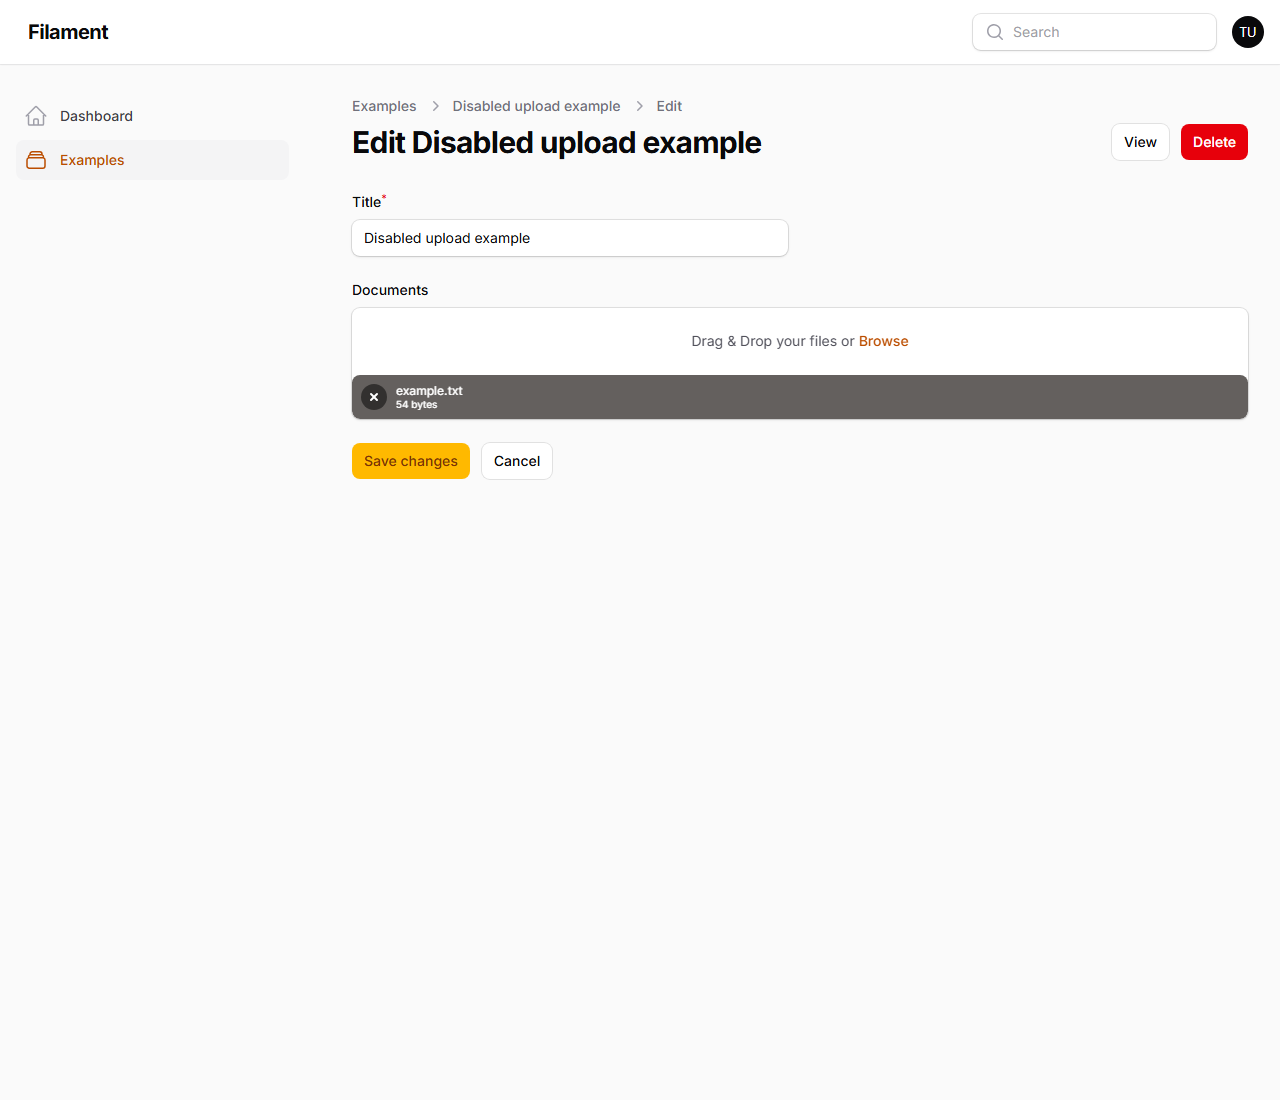
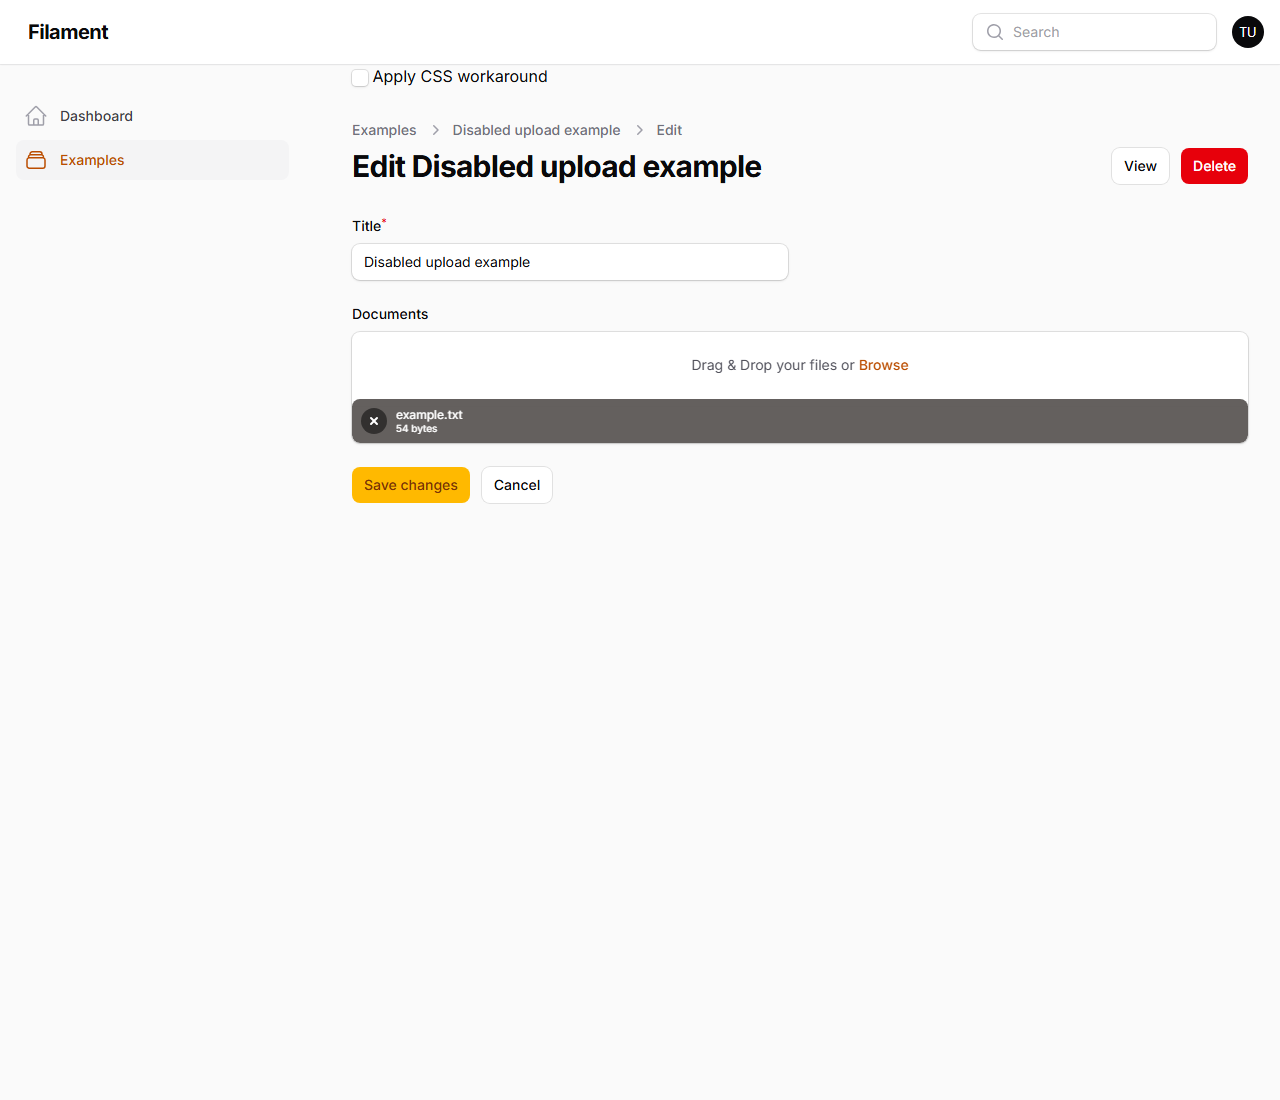
Add resource-page checkbox to enable CSS workaround

Changed region(s): [[0.25, 0.2782, 1.0, 0.4636], [0.25, 0.0618, 0.5938, 0.3091], [0.875, 0.0927, 1.0, 0.1855]]

diff --git a/app/Providers/Filament/AdminPanelProvider.php b/app/Providers/Filament/AdminPanelProvider.php
@@ -2,6 +2,8 @@
 
 namespace App\Providers\Filament;
 
+use App\Filament\Resources\Examples\ExampleResource;
+use Illuminate\Contracts\View\View;
 use Filament\Http\Middleware\Authenticate;
 use Filament\Http\Middleware\AuthenticateSession;
 use Filament\Http\Middleware\DisableBladeIconComponents;
@@ -29,6 +31,11 @@ class AdminPanelProvider extends PanelProvider
             ->default()
             ->id('admin')
             ->path('admin')
+            ->renderHook(
+                PanelsRenderHook::PAGE_START,
+                fn (): View => view('filament.workaround-toggle'),
+                scopes: ExampleResource::class,
+            )
             ->renderHook(PanelsRenderHook::HEAD_END, fn (): HtmlString => new HtmlString(
                 request()->boolean('workarounds') ? '<link rel="stylesheet" href="'.asset('workarounds.css').'">' : ''
             ))

diff --git a/resources/views/filament/workaround-toggle.blade.php b/resources/views/filament/workaround-toggle.blade.php
@@ -1,0 +1,15 @@
+<label>
+    <input
+        type="checkbox"
+        class="fi-checkbox-input"
+        @checked(request()->boolean('workarounds'))
+        onchange="
+            const url = new window.URL(window.location.href);
+            this.checked
+                ? url.searchParams.set('workarounds', '1')
+                : url.searchParams.delete('workarounds');
+            window.location.assign(url);
+        "
+    >
+    Apply CSS workaround
+</label>

diff --git a/README.md b/README.md
@@ -18,8 +18,8 @@ Log in at `/admin` with `test@example.com` / `password` (local template credenti
 1. Open the seeded **Disabled upload example** record for editing. Its populated `FileUpload` is enabled and displays its normal upload prompt.
 2. Open the record's **View** page. Filament disables the same form automatically.
 3. The existing document is visible, but an empty `.filepond--drop-label` reserves approximately 67px above it. Chromium measures the total field height as 111px.
-4. Append `?workarounds=1` to the view page and reload. The drop label is hidden before FilePond initializes, reducing the field height to 44px.
-5. Open the edit page with `?workarounds=1`. The enabled upload retains its label and original height.
+4. Check **Apply CSS workaround** at the top of the view page. The checkbox adds `?workarounds=1` and reloads the page. The drop label is hidden before FilePond initializes, reducing the field height to 44px.
+5. Open the edit page and check **Apply CSS workaround**. The enabled upload retains its label and original height.
 
 Field configuration:
 
@@ -34,7 +34,7 @@ There is no custom page, custom page template, or media-library integration. The
 
 ## Workaround
 
-`public/workarounds.css` contains only the disabled-upload override. An optional panel head hook loads it when `?workarounds=1` is present. Default pages use stock Filament styles.
+`public/workarounds.css` contains only the disabled-upload override. The checkbox adds or removes `?workarounds=1`; an optional panel head hook loads the stylesheet when that flag is present. Unchecking it reloads the original styles. Default pages use stock Filament styles.
 
 Applying the override after FilePond initializes hides the label but leaves cached layout space until reinitialization. Reloading ensures the override is present during initialization.
 
